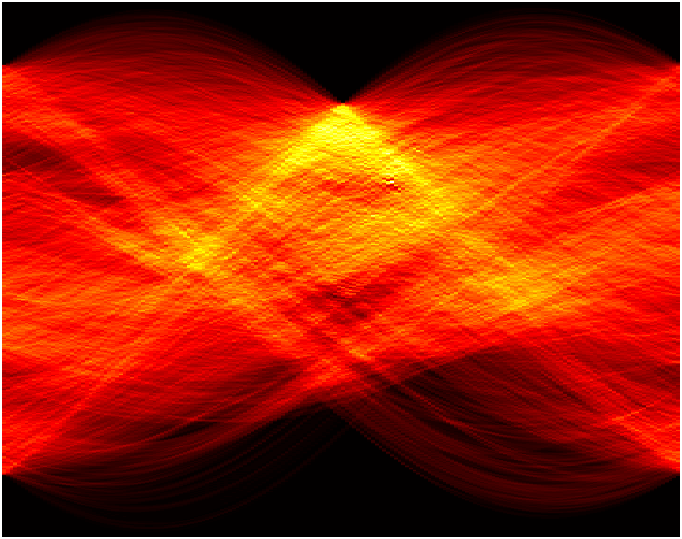
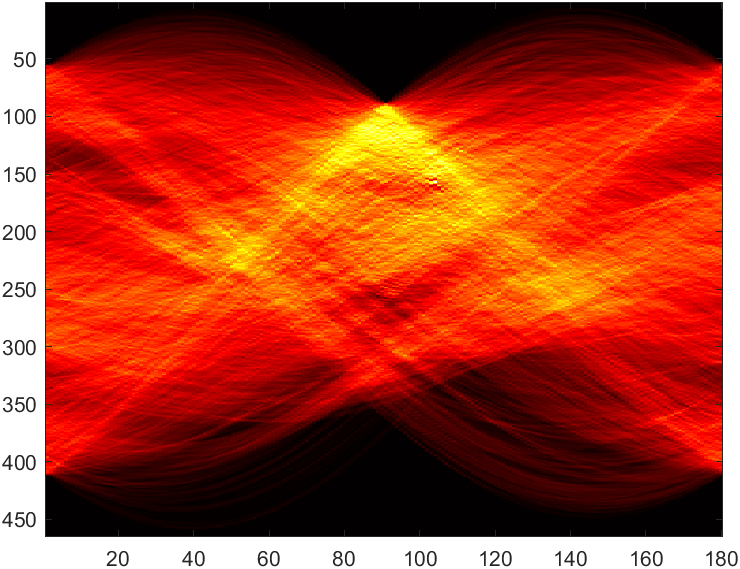
Add more experiments

diff --git a/Lab2/LEE_YEW_CHUAN_MICHAEL_CZ4003_LAB_2.m b/Lab2/LEE_YEW_CHUAN_MICHAEL_CZ4003_LAB_2.m
@@ -81,7 +81,6 @@ imshow(E);
 figure;
 imagesc(uint8(H));
 colormap(gca,hot);
-axis off;
 
 % 3.2.c Find the peak
 [radius, theta] = find(H == max(H(:)));
@@ -124,7 +123,7 @@ figure
 imshow(Pr);
 
 % 3.3.c Run your algorithm on the two images
-D = disparity_map(Pl, Pr, 11, 11);
+D = disparity_map(double(Pl), double(Pr), 11, 11);
 figure
 imshow(-D,[-15 15]);
 
@@ -134,31 +133,6 @@ Tl = rgb2gray(Tl);
 Tr = imread("triclopsi2r.jpg");
 Tr = rgb2gray(Tr);
 
-D_triclops = disparity_map(Tl, Tr, 11, 11);
+D_triclops = disparity_map(double(Tl), double(Tr), 11, 11);
 figure
 imshow(-D_triclops,[-15 15]);
-%%
-
-Pl = imread("corridorl.jpg");
-Pl = rgb2gray(Pl);
-figure
-imshow(Pl);
-
-Pr = imread("corridorr.jpg");
-Pr = rgb2gray(Pr);
-figure
-imshow(Pr);
-
-% 3.3.c Run your algorithm on the two images
-D = test_map(Pl, Pr, 11, 11);
-figure
-imshow(D,[-15 15]);
-
-Tl = imread("triclopsi2l.jpg");
-Tl = rgb2gray(Tl);
-Tr = imread("triclopsi2r.jpg");
-Tr = rgb2gray(Tr);
-
-D_triclops = test_map(Tl, Tr, 11, 11);
-figure
-imshow(D_triclops,[-15 15]);

diff --git a/Lab2/disparity_map.m b/Lab2/disparity_map.m
@@ -1,8 +1,5 @@
 function map = disparity_map(imgl, imgr, dim1, dim2)
     
-imgl = double(imgl); % Convert imgs to double
-imgr = double(imgr);
-
 [height, width] = size(imgl); 
 max_range = 15;
 row = floor(dim1/2);
@@ -10,13 +7,13 @@ col = floor(dim2/2);
 
 map = ones(size(imgl));
 
-for i = 1+row:height
-    min_row = max(1, i - row);
-    max_row = min(height, i + row);
+for h = 1+row:height
+    min_row = max(1, h - row);
+    max_row = min(height, h + row);
 
-    for j = 1+col:width
-        min_col = max(1, j - col);
-        max_col = min(width, j + col);
+    for c = 1+col:width
+        min_col = max(1, c - col);
+        max_col = min(width, c + col);
         
         I = imgl(min_row:max_row, min_col:max_col);
 
@@ -37,6 +34,6 @@ for i = 1+row:height
                 min_diff = k - lower_bound + 1;
             end
         end
-        map(i, j) = min_diff + lower_bound - 1;
+        map(h, c) = min_diff + lower_bound - 1;
     end
 end
